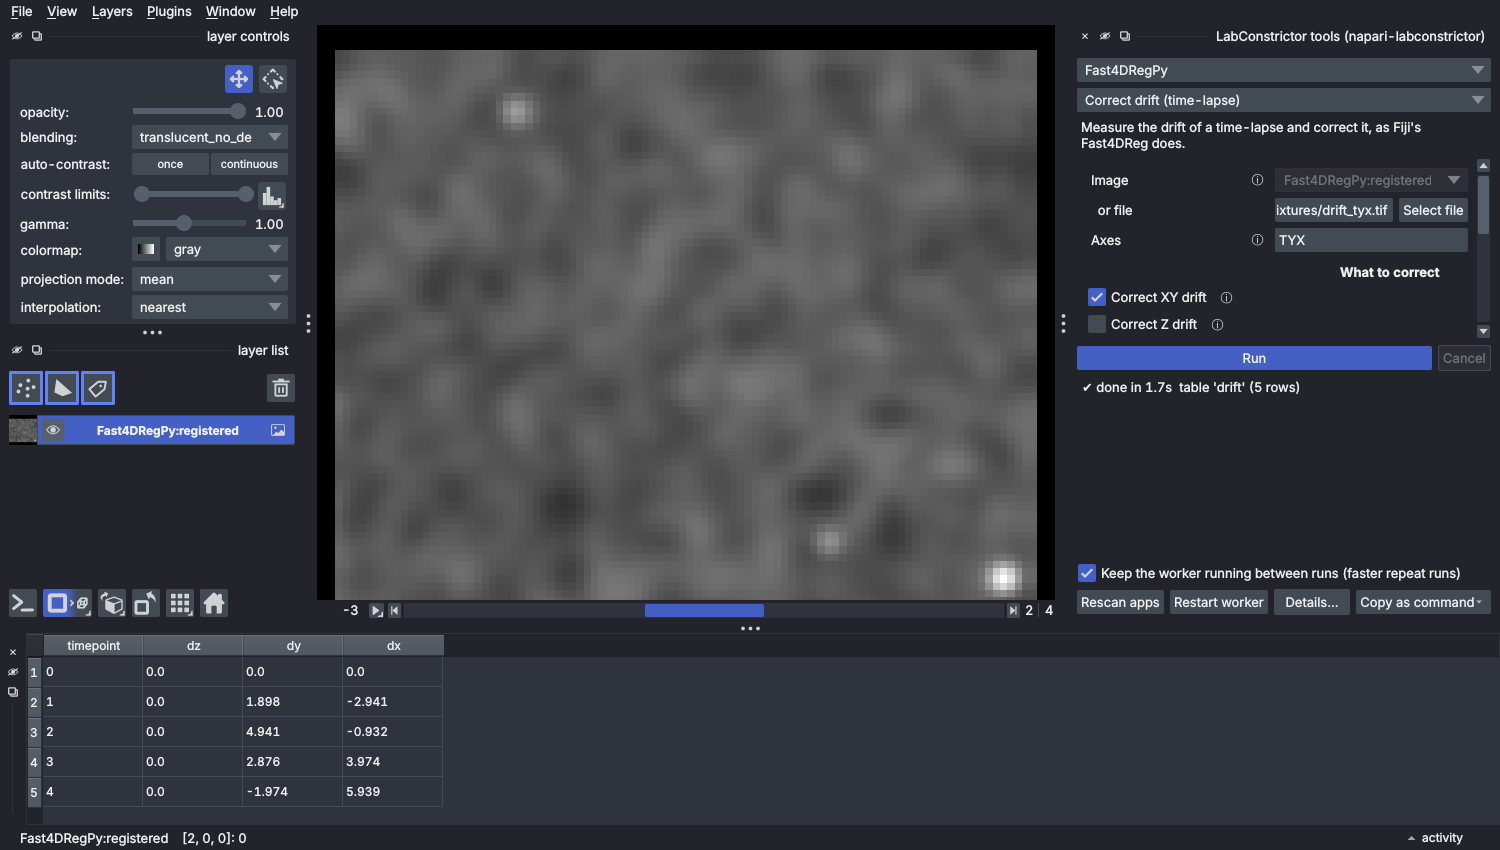
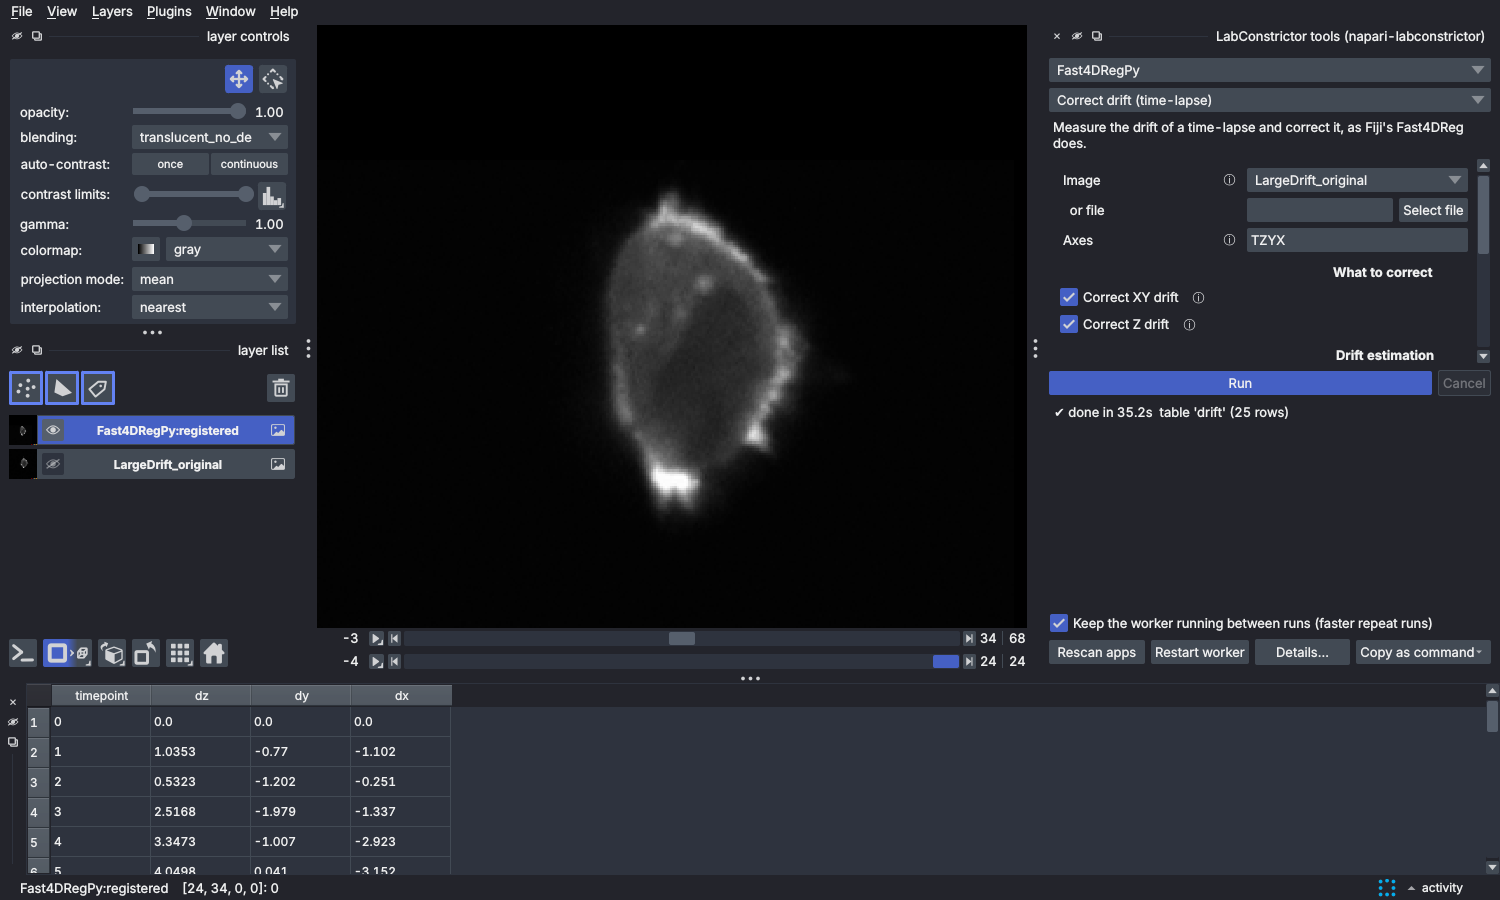
Docs screenshots from the paper data; app page facts in the manifest
Screenshots of napari and Fiji now use the published Fast4DReg large-drift
movie and calibration slide (Zenodo 7514913) instead of the small synthetic
fixtures. Results open as hyperstacks in Fiji, so the 'one long stack' note
is updated. The manifest gains status, doi, inputs, outputs, limitations,
quickstart and screenshots for the LabConstrictor App Centre page.

Claude-Session: https://claude.ai/code/session_01Scma6VXx7mT1FYsKmB1184

diff --git a/docs/napari_fiji.md b/docs/napari_fiji.md
@@ -39,9 +39,10 @@ each program can do with the tools of an app:
 
 ![Correct drift in napari](assets/napari_correct_drift.png)
 
-*Correct drift (time-lapse) in napari: the form on the right, the corrected
-movie, and the drift table with one row per timepoint (translation applied, in
-pixels).*
+*Correct drift (time-lapse) in napari on the published Fast4DReg large-drift
+movie (25 timepoints × 69 slices, XY and Z correction): the form on the right,
+the corrected movie, and the drift table with one row per timepoint
+(translation applied, in pixels).*
 
 ## In Fiji
 
@@ -57,13 +58,21 @@ pixels).*
 
 ![The Correct drift form in Fiji](assets/fiji_correct_drift_form.png)
 
-*The form of Correct drift (time-lapse) in Fiji. Advanced settings are at the
-bottom.*
+*The form of Correct drift (time-lapse) in Fiji, on the published large-drift
+movie. Advanced settings are at the bottom.*
+
+![Correct drift in Fiji](assets/fiji_correct_drift.png)
+
+*The raw movie (left) and the corrected one (`Fast4DRegPy:registered`), both at
+the last timepoint, and the drift table. The result is a hyperstack with its Z
+and T sliders.*
 
 ![Align channels in Fiji](assets/fiji_align_channels.png)
 
-*Align channels in Fiji on a 3-channel image: the aligned stack and the shift
-of each channel.*
+*Align channels in Fiji on the published calibration slide (3 channels × 25
+slices, XY and Z): the raw image (left), the aligned one and the shift of each
+channel. Both are shown as composites (Image > Color > Make Composite) so the
+colour fringes of the raw beads are visible.*
 
 ## The settings
 
@@ -73,10 +82,10 @@ the same names, plus **Axes**. The **Reference channel** is counted from 0
 
 ## Good to know
 
-- **A corrected movie with several dimensions opens in Fiji as one long
-  stack.** Use *Image > Hyperstacks > Stack to Hyperstack*, with the numbers
-  of slices and frames of your movie, to get the sliders back. napari keeps
-  the dimensions.
+- **Results keep their dimensions.** In Fiji the corrected movie opens as a
+  hyperstack with its time points, slices and channels (with LabConstrictor
+  tools 0.3.0a4 or later; older ones give one long stack, fixed with *Image >
+  Hyperstacks > Stack to Hyperstack*). napari keeps the dimensions.
 - **Corrected images are 32-bit** (`float32`) unless you choose the output type
   `input` (advanced settings).
 - **The result is a copy.** Your image is not changed. The result files
